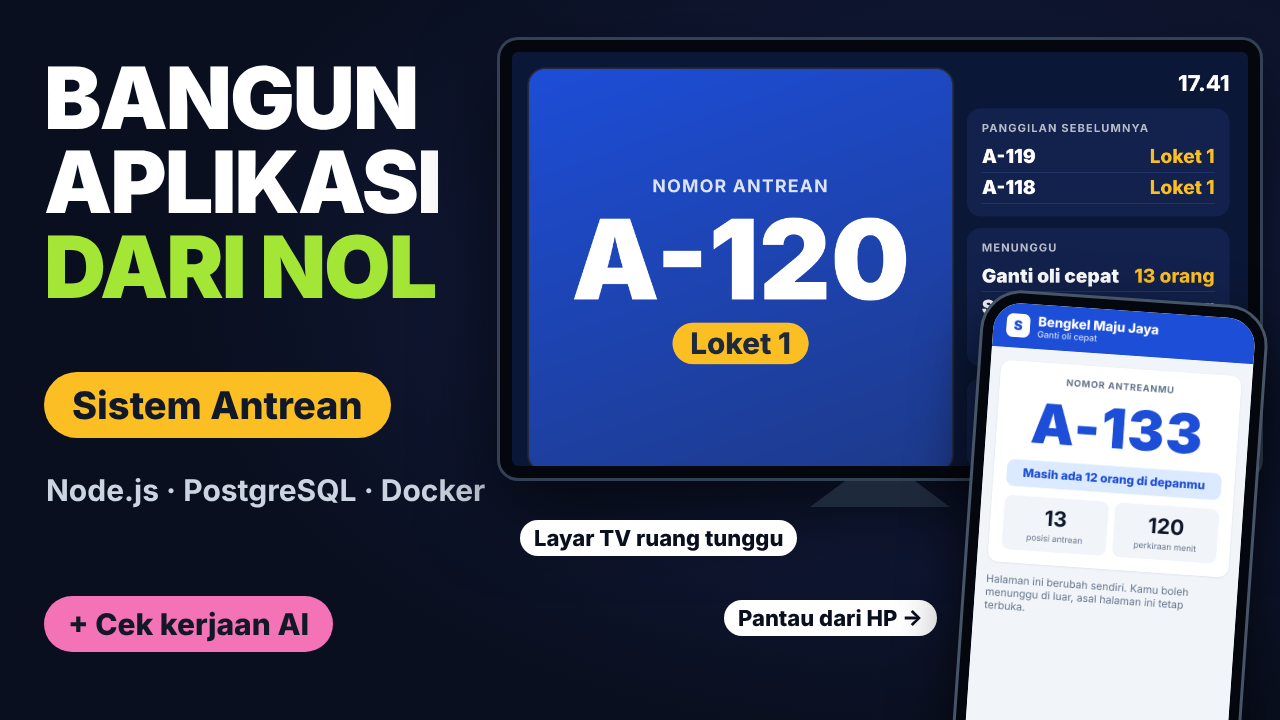
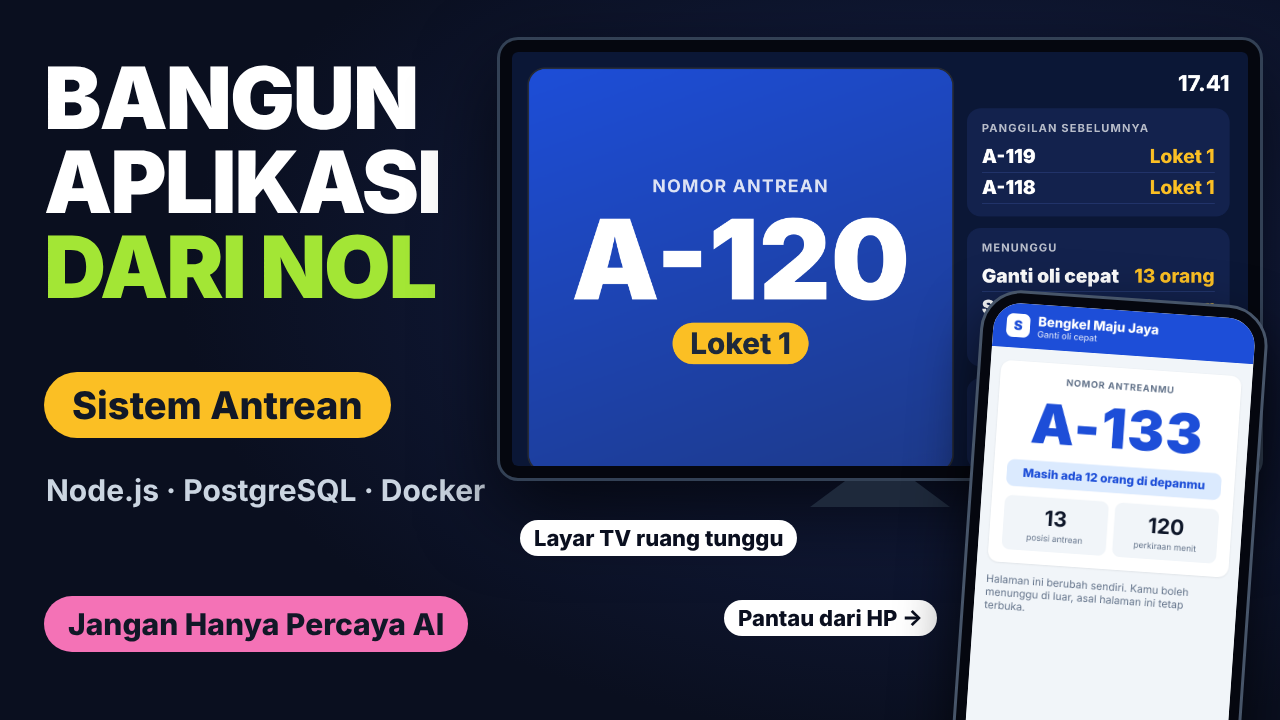
Antrean: label thumbnail menjadi Jangan Hanya Percaya AI
Claude-Session: https://claude.ai/code/session_012oyg5HrW86eY7KoaCgG2pY

Changed region(s): [[0.0312, 0.825, 0.375, 0.9167]]

diff --git a/episodes/antrean/produksi/thumbnail/th.html b/episodes/antrean/produksi/thumbnail/th.html
@@ -16,7 +16,7 @@ body{margin:0;width:1280px;height:720px;background:radial-gradient(1200px 700px 
 <div class="j">BANGUN<br>APLIKASI<br><b>DARI NOL</b></div>
 <div class="p">Sistem Antrean</div>
 <div class="s">Node.js · PostgreSQL · Docker</div>
-<div class="ai">+ Cek kerjaan AI</div>
+<div class="ai">Jangan Hanya Percaya AI</div>
 <div class="tv"><img src="tv.png"></div><div class="kaki"></div>
 <div class="lab" style="left:520px;top:520px">Layar TV ruang tunggu</div>
 <div class="lab" style="left:724px;top:600px">Pantau dari HP →</div>

diff --git a/episodes/antrean/produksi/thumbnail/th.js b/episodes/antrean/produksi/thumbnail/th.js
@@ -1,3 +1,3 @@
 const { chromium } = require('playwright');
 (async () => { const b = await chromium.launch(); const p = await b.newPage({ viewport: { width: 1280, height: 720 } });
-await p.goto('file:///tmp/claude-0/th/th.html'); await p.waitForTimeout(500); await p.screenshot({ path: 'thumbnail.png' }); await b.close(); })();
+await p.goto('file:///home/user/antre/akhir/thumb_src/th.html'); await p.waitForTimeout(500); await p.screenshot({ path: 'thumbnail.png' }); await b.close(); })();
